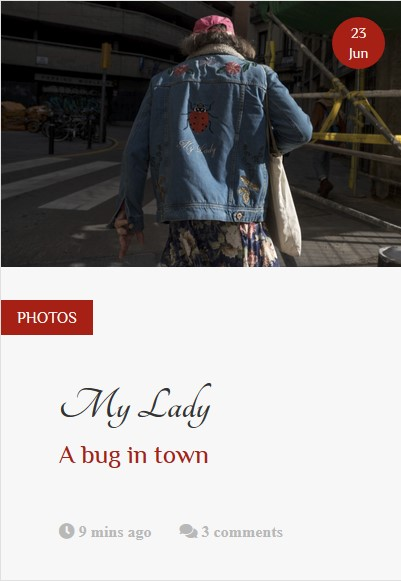
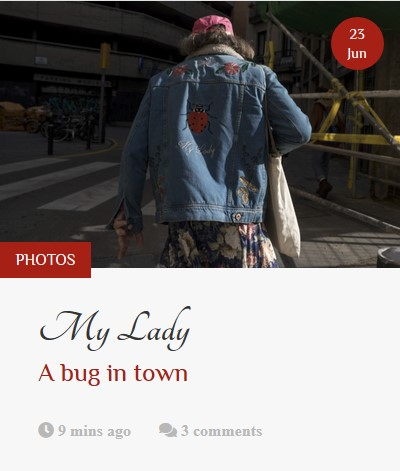
image screenshot

diff --git a/README.md b/README.md
@@ -3,7 +3,7 @@
 Creation of a simple animation in CSS while moving the mouse over the box.
 
 What happens ?
-* zoom over image
+* zoom over and image filter
 * text appears and slides up
 
 ![Animation1](./animationCSS1.jpg)
